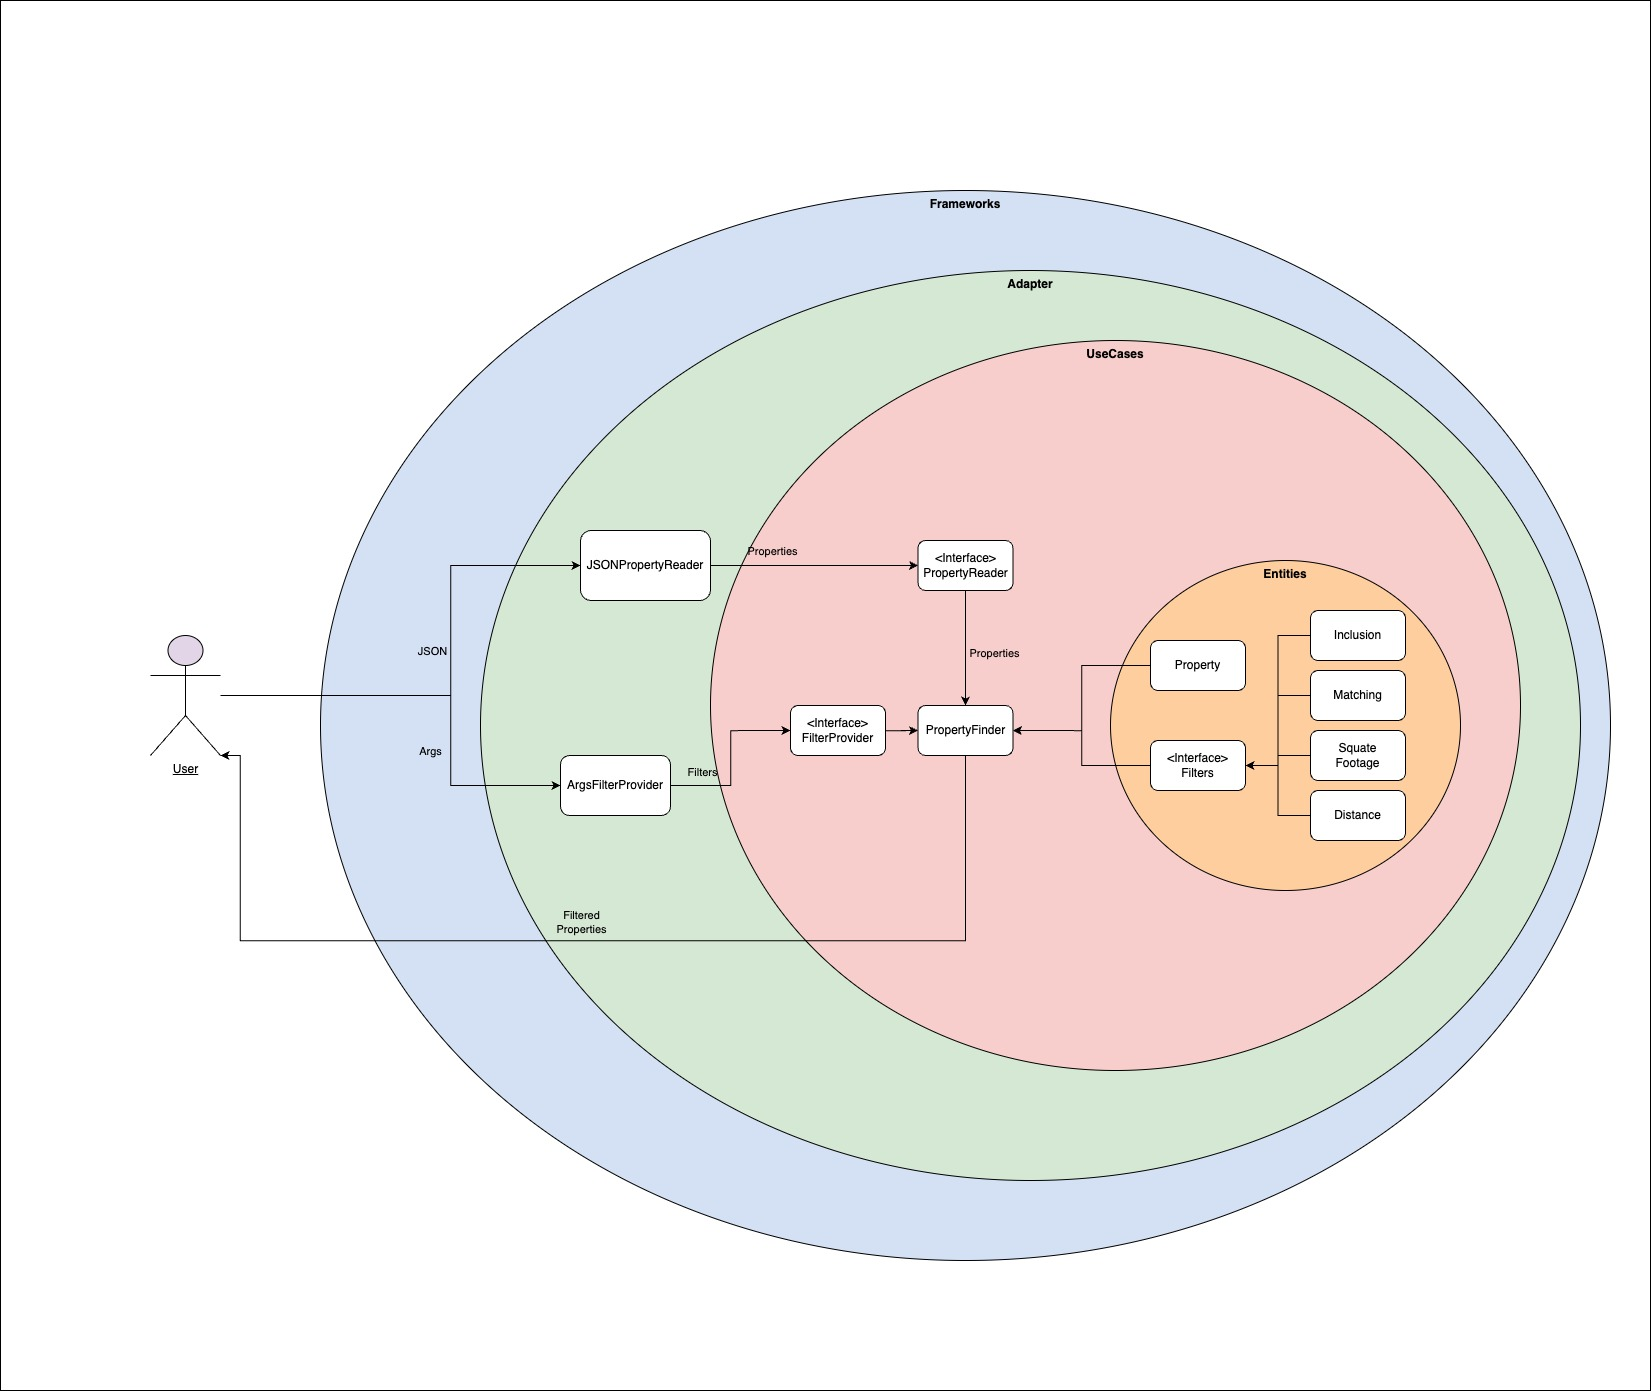
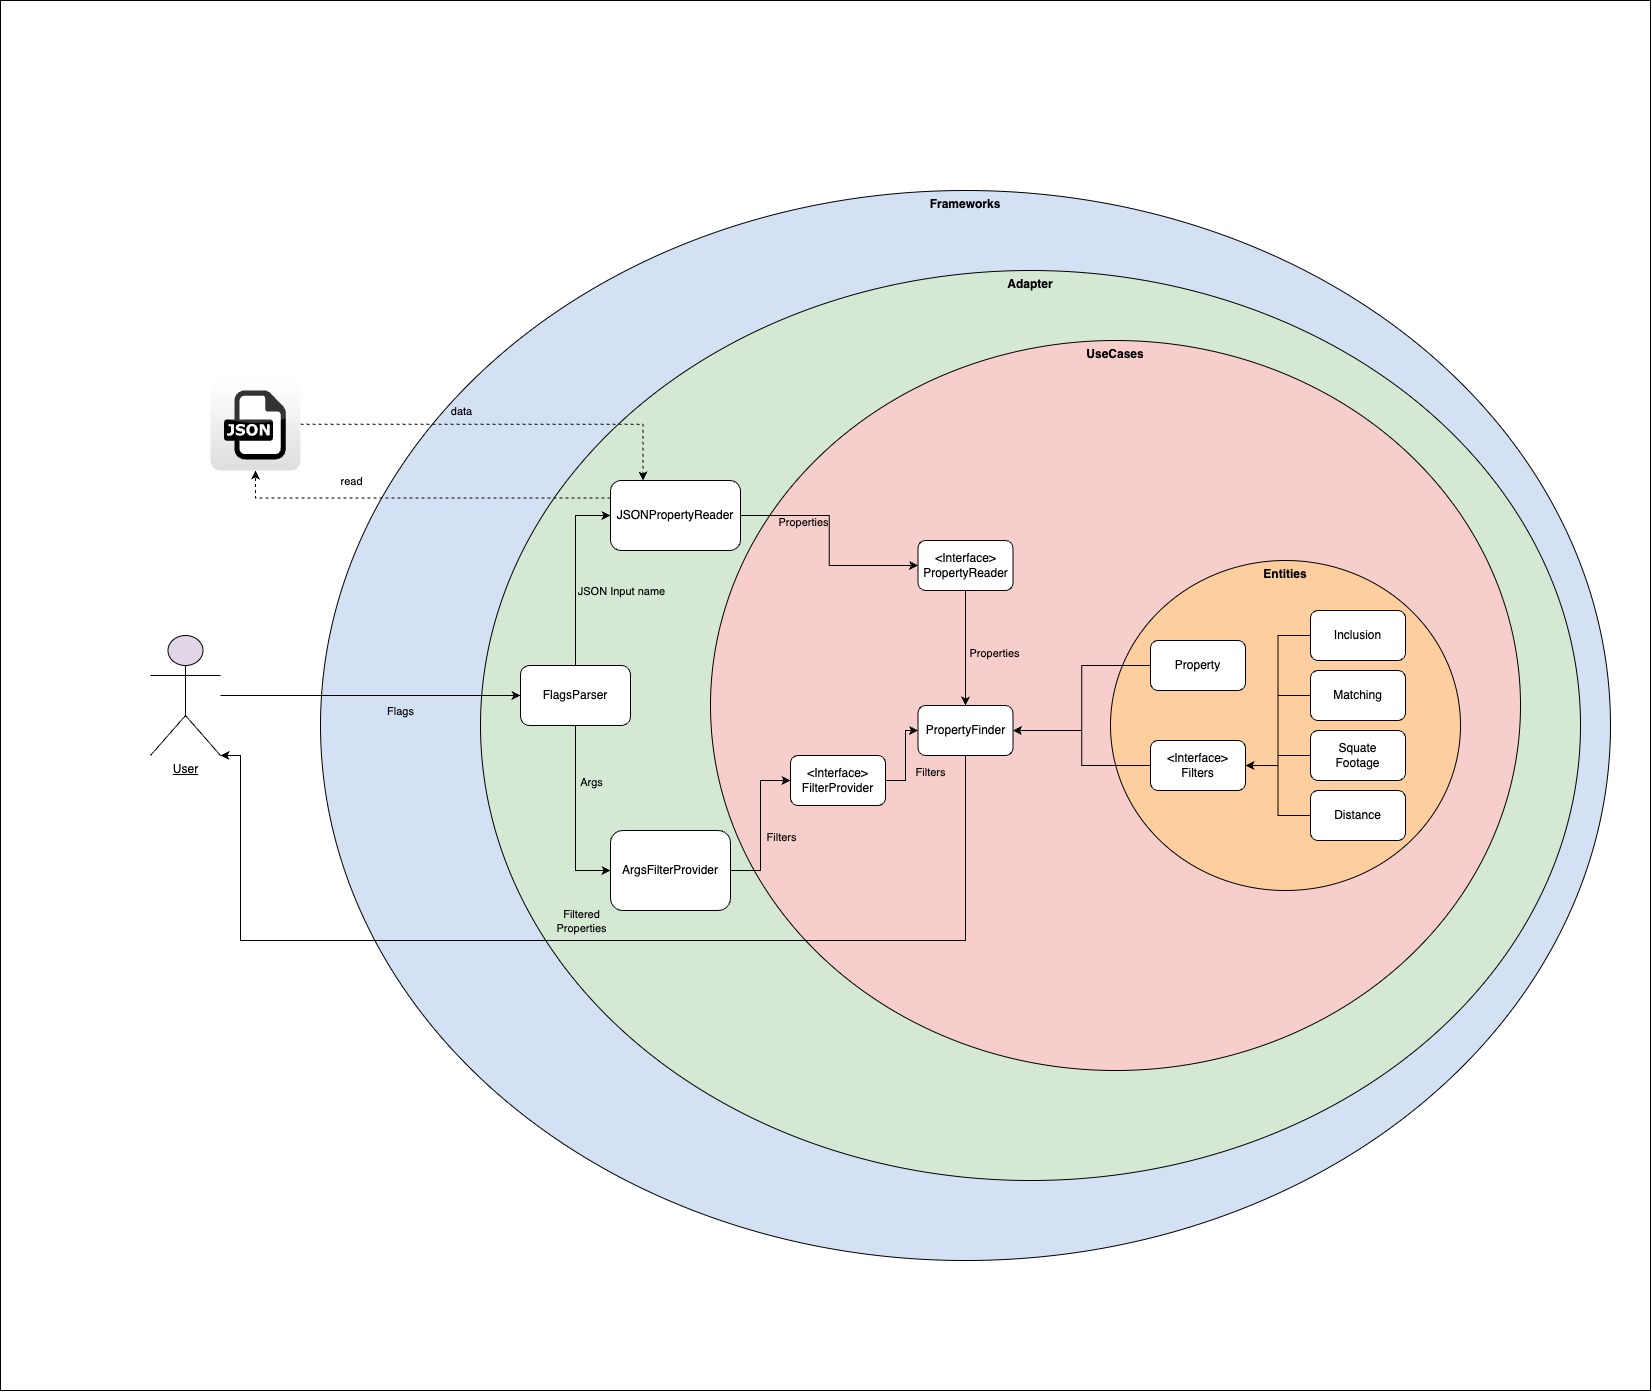
Update diagram in README

diff --git a/README.md b/README.md
@@ -41,7 +41,8 @@ This architecture adheres to the Dependency Rule, ensuring that inner layers do 
 The application follows a structured execution flow to efficiently filter properties based on user-provided criteria:
 
 1- Load Properties:
-- The JSONPropertyReader reads property data from a JSON file.
+- The JSONPropertyReader reads property data from a JSON file specified via command-line arguments.
+- If no filename is provided, the program will return an error.
 - It streams properties through a channel to avoid loading everything into memory at once.
 - Errors encountered while reading are sent to an error channel.
 
@@ -128,6 +129,8 @@ Available Filters
 - The location-based filtering (```--lat ```, ```--lon ```, and ```--maxDist ```) only works if all three parameters are provided. If any of them are missing, the location filter is ignored.
 - If ```--minSqFt ``` or ```--maxSqFt ``` is not provided, that constraint will not be applied to the results.
 
+### Examples
+
 ## Testing strategy
 
 This project follows a robust testing approach to ensure the reliability and correctness of the filtering logic.
@@ -150,10 +153,6 @@ These commands will generate a coverage report highlighting a high percentage of
 
 This project primarily relies on Go’s standard library, with the exception of:
 - Testify: Used for writing expressive and maintainable tests, providing assertions and test suite functionality.
-
-## Examples
-
-
 
 ## Questions
 
